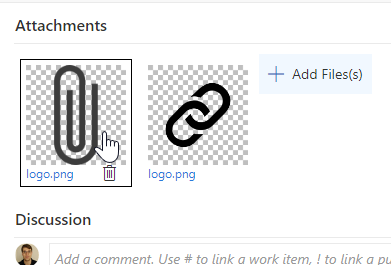
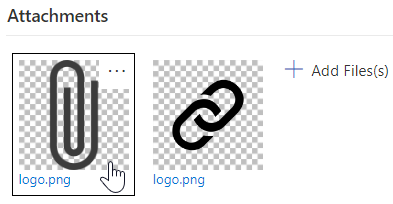
switch to context menu

Changed region(s): [[0.0307, 0.2059, 1.0, 1.0], [0.6752, 0.2353, 1.0, 0.3824], [0.0, 0.0294, 0.2762, 0.1176]]

diff --git a/scripts/group/view/FileThumbNail.tsx b/scripts/group/view/FileThumbNail.tsx
@@ -1,4 +1,5 @@
 import { IconButton } from "office-ui-fabric-react/lib/Button";
+import { IContextualMenuItem } from "office-ui-fabric-react/lib/ContextualMenu";
 import { Icon } from "office-ui-fabric-react/lib/Icon";
 import * as React from "react";
 import { HostNavigationService } from "VSS/SDK/Services/Navigation";
@@ -18,24 +19,7 @@ export interface IFileThumbNailProps {
 
 export class FileThumbNail extends React.Component<IFileThumbNailProps, {}> {
     public render() {
-        async function openFile(e: React.SyntheticEvent<HTMLElement>) {
-            e.preventDefault();
-            e.stopPropagation();
-            if (isPreviewable(file)) {
-                showDialog(e.type, files, idx);
-            } else {
-                const navigationService = await VSS.getService(VSS.ServiceIds.Navigation) as HostNavigationService;
-                trackEvent("download", {trigger: e.type, fromParent: !!files[idx].fromParent + "", ...getProps()});
-                navigationService.openNewWindow(fileUrl, "");
-            }
-        }
-        async function del(e: React.SyntheticEvent<{}>) {
-            e.stopPropagation();
-            e.preventDefault();
-            deleteAttachment(e.type, file);
-        }
-        const { files, idx } = this.props;
-        const file = files[idx];
+        const file = this.file();
         const isImage: boolean = isImageFile(file);
         const icon = isImage ? null : getFileIcon(file.attributes.name);
         const fileUrl = getFileUrl(file);
@@ -49,12 +33,12 @@ export class FileThumbNail extends React.Component<IFileThumbNailProps, {}> {
         return <a
             className="thumbnail-tile"
             href={fileUrl}
-            onClick={openFile}
+            onClick={this.openFile.bind(this)}
             onKeyDown={(e) => {
                 if (e.keyCode === KeyCode.ENTER) {
-                    openFile(e);
+                    this.openFile(e);
                 } else if (e.keyCode === KeyCode.DELETE) {
-                    del(e);
+                    this.del(e);
                 }
             }}
         >
@@ -81,14 +65,67 @@ export class FileThumbNail extends React.Component<IFileThumbNailProps, {}> {
                 }
             </div>
             <div className="title">
-                <div className="text">{file.attributes.name}</div>
-                <IconButton
-                    className="delete-button"
-                    iconProps={{iconName: "Delete"}}
-                    title="Delete (del)"
-                    onClick={del}
-                />
+                <div className="text" title={file.attributes.name}>{file.attributes.name}</div>
             </div>
+            <IconButton
+                iconProps={ {
+                    iconName: "More",
+                    title: "More Options",
+                } }
+                tabIndex={-1}
+                data-is-focusable={false}
+                split={false}
+                className="options"
+                menuProps={{
+                    items: this.getMenuOptions(),
+                    isBeakVisible: false,
+                }}
+            />
         </a>;
+    }
+
+    private getMenuOptions(): IContextualMenuItem[] {
+        return [
+            {
+                key: "Delete",
+                icon: "Delete",
+                name: "Delete (del)",
+                onClick: (e) => {
+                    if (!e) { return; }
+                    this.del(e);
+                },
+            },
+            // {
+            //     key: "Rename",
+            //     icon: "Rename",
+            //     name: "Rename (f2)",
+            //     onClick: (e) => {
+            //         if (!e) { return; }
+            //         this.rename(e);
+            //     },
+            // },
+        ];
+    }
+
+    private file() {
+        const { files, idx } = this.props;
+        return files[idx];
+    }
+    private async del(e: React.SyntheticEvent<{}>) {
+        deleteAttachment(e.type, this.file());
+    }
+
+    private async openFile(e: React.SyntheticEvent<HTMLElement>) {
+        e.preventDefault();
+        e.stopPropagation();
+        const { files, idx } = this.props;
+        const file = this.file();
+        if (isPreviewable(file)) {
+            showDialog(e.type, files, idx);
+        } else {
+            const navigationService = await VSS.getService(VSS.ServiceIds.Navigation) as HostNavigationService;
+            trackEvent("download", {trigger: e.type, fromParent: !!files[idx].fromParent + "", ...getProps()});
+            navigationService.openNewWindow(getFileUrl(file), "");
+        }
     }
 }

diff --git a/styles/attachmentGroup.scss b/styles/attachmentGroup.scss
@@ -36,6 +36,7 @@
             border: 1px solid transparent;
             text-decoration: none;
             height: 130px;
+            position: relative;
             &:focus {
                 background-color: aliceblue;
             }
@@ -44,6 +45,18 @@
             }
             &:not(:hover) {
                 .title .delete-button {
+                    display: none;
+                }
+                .options {
+                    visibility: hidden;
+                }
+            }
+            .options {
+                position: absolute;
+                background-color: white;
+                top: 0px;
+                right: 0px;
+                .ms-Button-menuIcon {
                     display: none;
                 }
             }
